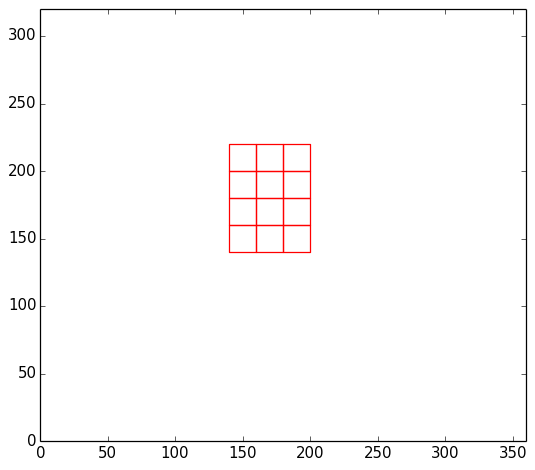
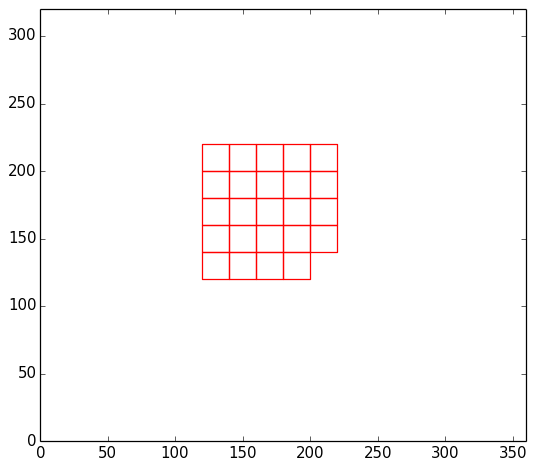
hallo

Changed region(s): [[0.3589, 0.2979, 0.6579, 0.5957]]

diff --git a/random_algoritm.py b/random_algoritm.py
@@ -73,21 +73,23 @@ def main(total_houses, iterations):
         if (total_value > best_iteration):
             best_iteration = total_value
 
-            fig1 = plt.figure()
-            ax1 = fig1.add_subplot(111, aspect='equal')
-            ax1.set_xlim(0, 360)
-            ax1.set_ylim(0, 320)
+            # fig1 = plt.figure()
+            # ax1 = fig1.add_subplot(111, aspect='equal')
+            # ax1.set_xlim(0, 360)
+            # ax1.set_ylim(0, 320)
+            #
+            # for building in buildings:
+            #     if building.name == 'house':
+            #         visualisation.drawBuilding(ax1, building, building.left_bottom[0], building.left_bottom[1], 'red')
+            #     if building.name == 'bungalow':
+            #         visualisation.drawBuilding(ax1, building, building.left_bottom[0], building.left_bottom[1], 'black')
+            #     if building.name == 'maison':
+            #         visualisation.drawBuilding(ax1, building, building.left_bottom[0], building.left_bottom[1], 'green')
+            #
+            # # safe figure
+            # fig1.savefig('random_algoritm.png', dpi=90, bbox_inches='tight')
 
-            for building in buildings:
-                if building.name == 'house':
-                    visualisation.drawBuilding(ax1, building, building.left_bottom[0], building.left_bottom[1], 'red')
-                if building.name == 'bungalow':
-                    visualisation.drawBuilding(ax1, building, building.left_bottom[0], building.left_bottom[1], 'black')
-                if building.name == 'maison':
-                    visualisation.drawBuilding(ax1, building, building.left_bottom[0], building.left_bottom[1], 'green')
-
-            # safe figure
-            fig1.savefig('random_algoritm.png', dpi=90, bbox_inches='tight')
+    return buildings
 
         print("best_iteration")
 	# stop = timeit.default_timer()

diff --git a/expanding_universe.py b/expanding_universe.py
@@ -17,24 +17,35 @@ def main(total_houses):
     b_number = 0.25 * total_houses
     m_number = 0.15 * total_houses
 
+    # build houses in middle of map
     grid_size = int(math.ceil(math.sqrt(h_number)))
-    print grid_size
     counter = 0
     for i in range(grid_size):
-        x = (X_DIMENSION / 2) + classes.House.width * (i - (grid_size / 2))
+
+        x = (X_DIMENSION + (classes.House.width * (2 * i - grid_size - 1))) / 2
+
+        # x = (X_DIMENSION / 2) + classes.House.width * (i - (grid_size / 2))
+
 
         for j in range(grid_size):
 
             if counter == h_number:
                 break
 
-            y = (Y_DIMENSION / 2) + (classes.House.length * ((grid_size / 2) - j))
+            y = (Y_DIMENSION + (classes.House.width * (-2 * j + grid_size - 1))) / 2
+
+            # y = (Y_DIMENSION / 2) + (classes.House.length * ((grid_size / 2) - j))
 
             counter += 1
             house = classes.House(x, y)
             buildings.append(house)
 
-    
+
+    for i in range(b_number):
+
+        x = (X_DIMENSION / 2) - grid_size
+
+
 
     fig1 = plt.figure()
     ax1 = fig1.add_subplot(111, aspect='equal')

diff --git a/main.py b/main.py
@@ -10,7 +10,7 @@ if __name__ == "__main__":
     if algoritm == "random":
         iterations = input("How many iterations?: ")
 
-        random_algoritm.main(total_houses, iterations)
+        buildings = random_algoritm.main(total_houses, iterations)
 
     elif algoritm == "expanding universe":
 
